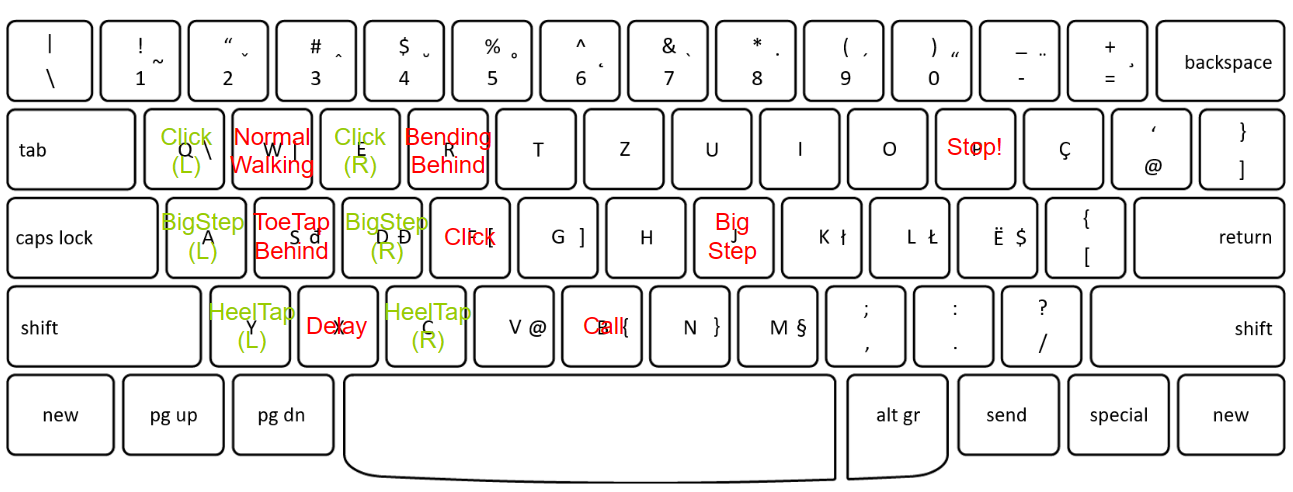
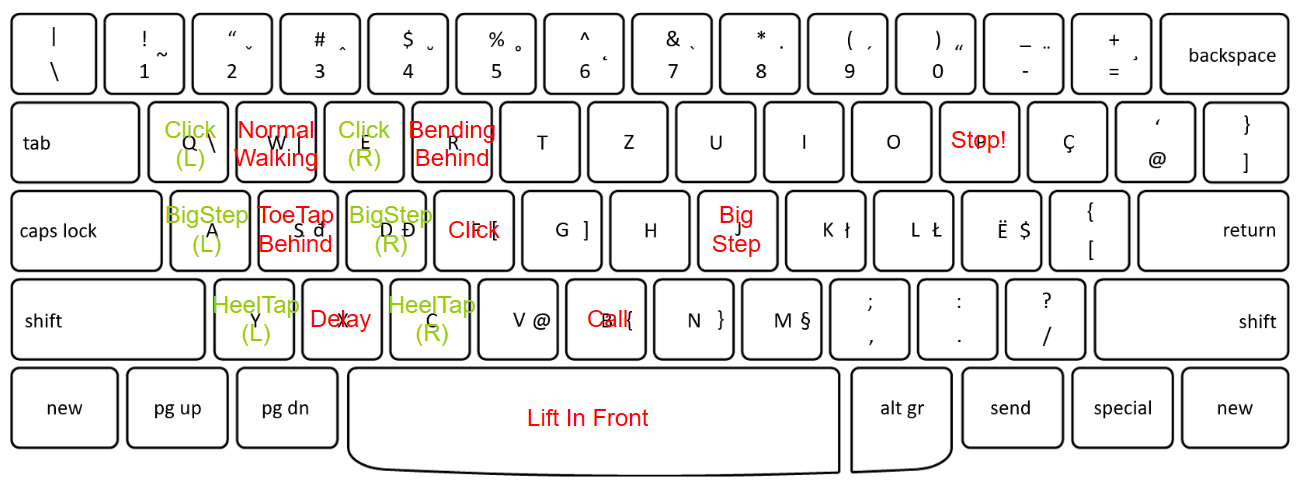
update

Changed region(s): [[0.0, 0.0, 1.0, 1.0], [0.4022, 0.8282, 0.495, 0.8896], [0.8043, 0.2761, 0.8353, 0.3067]]

diff --git a/ApplicationStudy/app_running.py b/ApplicationStudy/app_running.py
@@ -36,7 +36,7 @@ while True:
         #client_socket.send(("Message received at " + str(time.ctime(time.time()))).encode())
         print('You Pressed A Key!')
     button = keyboard.read_key()
-    if button == "F":
+    if button == "f":
         client_socket.send("Click".encode())
     elif button == "w":
         client_socket.send("Normal Walking".encode())
@@ -48,6 +48,8 @@ while True:
         client_socket.send("ToeTapBehind".encode())
     elif button == "x":
         client_socket.send("Delay".encode())
+    elif button == " ":
+        client_socket.send("LiftInFront".encode())
     elif button == "p":
         client_socket.send("Stop!")
     elif button == "d":
